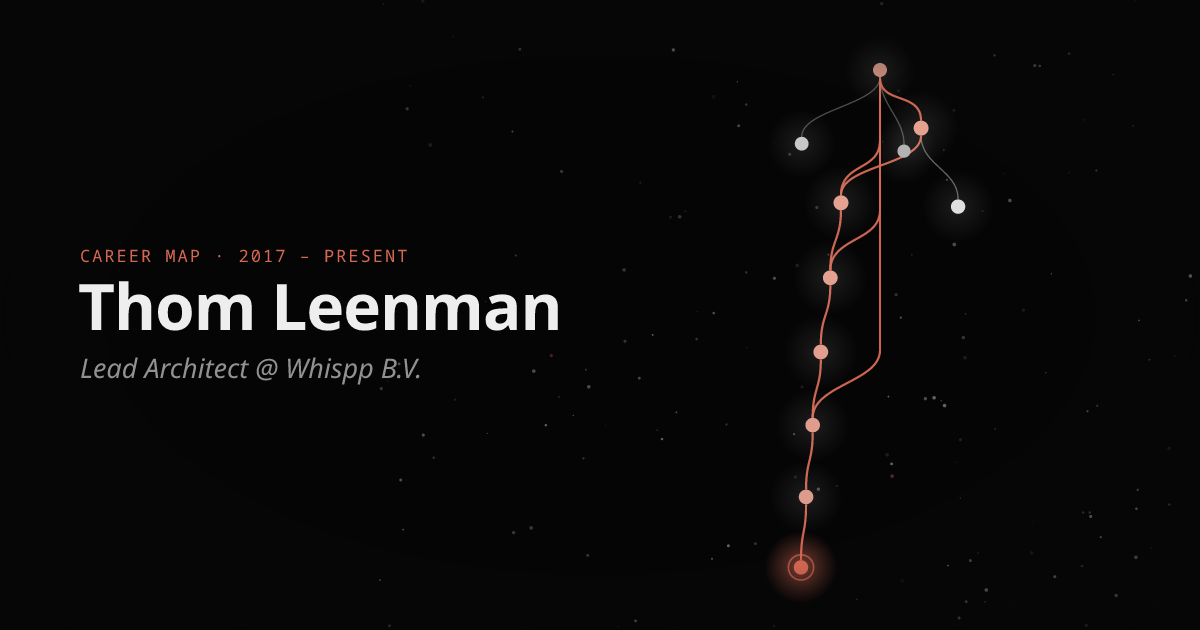
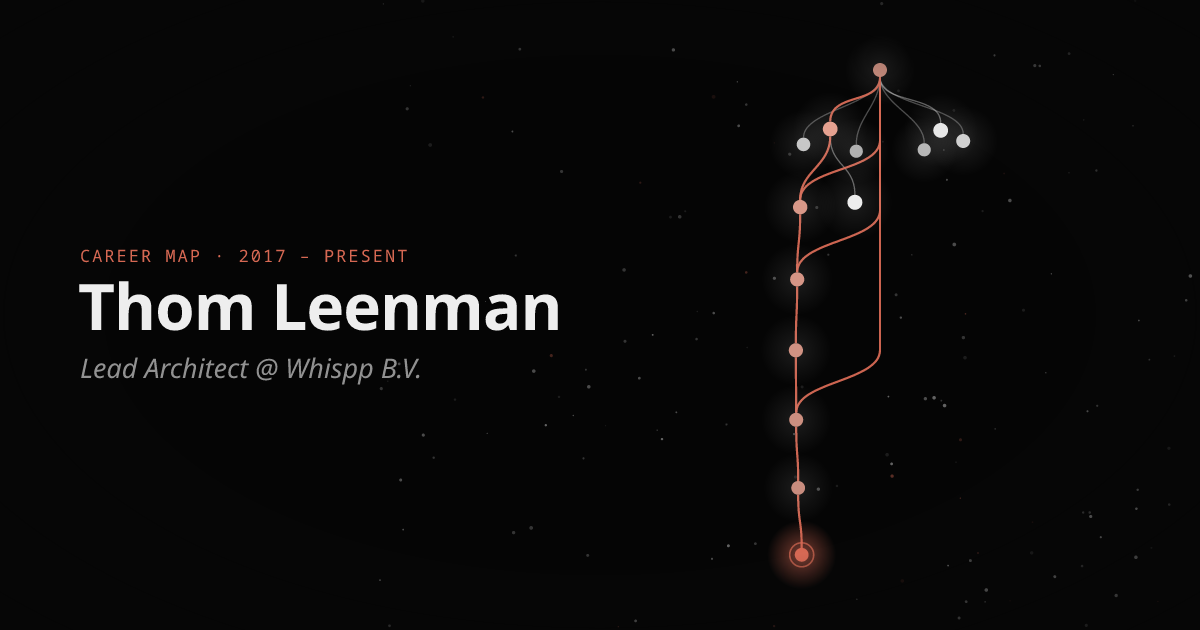
Add projects from lnmn.nl, card links and the CSS-Scripter tagline
- New milestones under the degree: SyncMyMusic, Cite and PixelFont
  (SyncMyMusic and PixelFont dates are estimates, marked in data.js)
- Optional per-milestone links, shown on the card and in the static list
- Tagline under the name in the header
- Only the current role gets the "you are here" ping
- Preview image picks the camera angle where milestones overlap the least

diff --git a/js/data.js b/js/data.js
@@ -4,6 +4,8 @@
 
 export const profile = {
     name: 'Thom Leenman',
+    // Shown right under the name
+    tagline: "aka CSS-Scripter (can't do css tho)",
     // Where the site is hosted; link previews need absolute URLs (e.g. for og.png)
     url: 'https://lnmn.nl',
     // Shown under the name. Leave empty to derive it from the current milestone.
@@ -25,6 +27,7 @@ export const profile = {
  * @property {string} description     Paragraphs separated by a blank line
  * @property {string[]} connectionsFrom
  * @property {string[]} skills
+ * @property {{ label: string, href: string }[]} [links]  Shown on the card, e.g. a live site or repository
  */
 
 /** @type {Milestone[]} */
@@ -155,6 +158,53 @@ export const nodeData = [
         `,
         connectionsFrom: ['hsleiden'],
         skills: ['Angular', 'JavaScript', 'TypeScript']
+    }, {
+        id: 'syncmymusic',
+        title: 'SyncMyMusic',
+        subtitle: 'School project',
+        // Estimated: the project semester before the GitHub repository was created (Jan 2021)
+        start: '2020-09',
+        end: '2021-01',
+        description: `
+            A school project, with the primary goal of setting up a CI/CD pipeline. The project itself was done in Golang and Vue, with a self-hosted GitLab CI pipeline.
+
+            The website was meant for music bands, with the goal of easily managing sheet music. It's always a pain to search through all the sheet music until you find the correct one.
+        `,
+        connectionsFrom: ['hsleiden'],
+        skills: ['Golang', 'Vue', 'GitLab CI', 'CI/CD'],
+        links: [
+            { label: 'GitHub', href: 'https://github.com/CSS-Scripter/SyncMyMusic' },
+        ],
+    }, {
+        id: 'cite',
+        title: 'Cite',
+        subtitle: 'School project',
+        start: '2021-02',
+        end: '2021-05',
+        description: `
+            There are a lot of occasions where another WhatsApp group is created with the sole purpose of storing quotes. Why not keep them in a nicely styled app that also has the sole purpose of storing quotes? Created in collaboration with my buddy Daniel (LNGZL)!
+        `,
+        connectionsFrom: ['hsleiden'],
+        skills: [],
+        links: [
+            { label: 'LNGZL', href: 'https://lngzl.nl/' },
+        ],
+    }, {
+        id: 'pixelfont',
+        title: 'PixelFont',
+        subtitle: 'Side project',
+        // Estimated: when the GitHub repository was created; still online, so no end date
+        start: '2020-10',
+        end: null,
+        description: `
+            It's basically a font in pure (S)CSS. It started off as one of my less serious projects, and it still is one of my less serious projects.
+        `,
+        connectionsFrom: ['hsleiden'],
+        skills: ['CSS', 'SCSS'],
+        links: [
+            { label: 'pixelfont.lnmn.nl', href: 'https://pixelfont.lnmn.nl' },
+            { label: 'GitHub', href: 'https://github.com/CSS-Scripter/PixelFont' },
+        ],
     }, {
         id: 'whispp_lead-architect',
         title: 'Lead Architect',

diff --git a/scripts/og-image.js b/scripts/og-image.js
@@ -50,11 +50,40 @@ const fov = 30;
 const centerY = (layout.top + layout.bottom) / 2;
 const visibleHeight = layout.top - layout.bottom + 10;
 const distance = visibleHeight / (2 * Math.tan(THREE.MathUtils.degToRad(fov / 2)));
-const azimuth = Math.PI / 2 - layout.nodes.get(current.id).angle + 1.15;
 const camera = new THREE.PerspectiveCamera(fov, TREE.width / HEIGHT, 0.1, 1000);
-camera.position.set(Math.sin(azimuth) * distance, centerY, Math.cos(azimuth) * distance);
-camera.lookAt(0, centerY, 0);
-camera.updateMatrixWorld();
+const placeCamera = (azimuth) => {
+    camera.position.set(Math.sin(azimuth) * distance, centerY, Math.cos(azimuth) * distance);
+    camera.lookAt(0, centerY, 0);
+    camera.updateMatrixWorld();
+};
+
+// Look at the current role's column from the side (so it doesn't hide the spine), at
+// the angle where milestones overlap each other and the spine the least on screen
+const facing = Math.PI / 2 - layout.nodes.get(current.id).angle;
+const separation = (azimuth) => {
+    placeCamera(azimuth);
+    const toScreen = (p) => {
+        const v = new THREE.Vector3(p.x, p.y, p.z).project(camera);
+        return { x: v.x * TREE.width / 2, y: v.y * HEIGHT / 2 };
+    };
+    const points = [...layout.nodes.values()].filter((n) => !n.onSpine).map((n) => ({
+        ...toScreen(n.position),
+        spineX: toScreen({ x: 0, y: n.position.y, z: 0 }).x,
+    }));
+    let min = Infinity;
+    points.forEach((a, i) => {
+        min = Math.min(min, Math.abs(a.x - a.spineX));
+        points.slice(i + 1).forEach((b) => {
+            min = Math.min(min, Math.hypot(a.x - b.x, a.y - b.y));
+        });
+    });
+    return min;
+};
+let azimuth = facing + Math.PI / 2;
+for (let offset = 0.6; offset <= 2.5; offset += 0.02) {
+    if (separation(facing + offset) > separation(azimuth)) azimuth = facing + offset;
+}
+placeCamera(azimuth);
 
 const focal = HEIGHT / 2 / Math.tan(THREE.MathUtils.degToRad(fov / 2));
 const project = (p) => {

diff --git a/js/graph.js b/js/graph.js
@@ -3,6 +3,7 @@ import { Line2 } from 'three/addons/lines/Line2.js';
 import { LineGeometry } from 'three/addons/lines/LineGeometry.js';
 import { LineMaterial } from 'three/addons/lines/LineMaterial.js';
 import { DIMMED, HIGHLIGHT, LINEAGE, NODE_RADIUS, WHITE } from './constants';
+import { currentMilestone } from './format';
 import { getGlowTexture } from './textures';
 
 const discGeometry = new THREE.CircleGeometry(NODE_RADIUS, 64);
@@ -43,7 +44,7 @@ export function createConnectionCurve(points) {
     return path;
 }
 
-function createNodeView(data, item) {
+function createNodeView(data, item, isCurrent) {
     const group = new THREE.Group();
     group.position.set(item.position.x, item.position.y, item.position.z);
 
@@ -70,7 +71,7 @@ function createNodeView(data, item) {
     billboard.add(halo, disc, ring, hit);
 
     let ping = null;
-    if (data.end === null) {
+    if (isCurrent) {
         ping = new THREE.Mesh(ringGeometry, new THREE.MeshBasicMaterial({
             color: HIGHLIGHT, transparent: true, opacity: 0, depthWrite: false,
         }));
@@ -140,7 +141,8 @@ function createPulses(edges) {
 export function createGraph(layout, nodes) {
     const group = new THREE.Group();
 
-    const nodeViews = new Map(nodes.map((n) => [n.id, createNodeView(n, layout.nodes.get(n.id))]));
+    const current = currentMilestone(nodes);
+    const nodeViews = new Map(nodes.map((n) => [n.id, createNodeView(n, layout.nodes.get(n.id), n === current)]));
     const edgeViews = layout.edges.map((e) => createEdgeView(e, nodeViews));
     const pulses = createPulses(edgeViews);
 

diff --git a/js/ui.js b/js/ui.js
@@ -35,6 +35,27 @@ function chip(text, onClick) {
     return li;
 }
 
+function linkGroup(links = []) {
+    if (!links.length) return null;
+    const wrapper = document.createElement('div');
+    const heading = document.createElement('h3');
+    heading.textContent = 'Links';
+    const list = document.createElement('ul');
+    list.className = 'chips external';
+    links.forEach(({ label, href }) => {
+        const li = document.createElement('li');
+        const a = document.createElement('a');
+        a.href = href;
+        a.target = '_blank';
+        a.rel = 'noopener';
+        a.textContent = `${label} ↗`;
+        li.append(a);
+        list.append(li);
+    });
+    wrapper.append(heading, list);
+    return wrapper;
+}
+
 function relationGroup(label, nodes, onSelect) {
     if (!nodes.length) return null;
     const wrapper = document.createElement('div');
@@ -112,6 +133,7 @@ export function createUI({ onSelect, onClose }) {
         el.skills.hidden = node.skills.length === 0;
 
         el.relations.replaceChildren(...[
+            linkGroup(node.links),
             relationGroup('Came from', parents, onSelect),
             relationGroup('Led to', children, onSelect),
         ].filter(Boolean));

diff --git a/styles.css b/styles.css
@@ -69,7 +69,14 @@ button:focus-visible, a:focus-visible, #overlay:focus-visible {
     color: var(--muted);
 }
 
-.links:empty { display: none; }
+.tagline {
+    margin: 0.3em 0 0;
+    font-family: var(--mono);
+    font-size: 0.75rem;
+    color: var(--muted);
+}
+
+.tagline:empty, .links:empty { display: none; }
 
 .links {
     display: flex;
@@ -309,6 +316,24 @@ button:focus-visible, a:focus-visible, #overlay:focus-visible {
 }
 
 .chips.links button:hover { background: rgba(214, 104, 83, 0.25); }
+
+.chips.external > li { padding: 0; border: none; }
+
+.chips.external a {
+    display: inline-block;
+    padding: 0.25em 0.75em;
+    border: 1px solid var(--faint);
+    border-radius: 999px;
+    font-size: 0.72rem;
+    color: var(--fg);
+    text-decoration: none;
+    transition: border-color 0.2s;
+}
+
+.chips.external a:hover { border-color: var(--accent); }
+
+.milestone-links { display: flex; gap: 1em; font-size: 0.8rem; }
+.milestone-links a { color: var(--fg); }
 
 .stepper {
     display: flex;

diff --git a/js/format.js b/js/format.js
@@ -81,6 +81,7 @@ export function renderMilestoneList(nodes) {
                 <div class="milestone-body">
                     ${paragraphs(n.description).map((p) => `<p>${escapeHtml(p)}</p>`).join('')}
                     ${n.skills.length ? `<ul class="chips">${n.skills.map((s) => `<li>${escapeHtml(s)}</li>`).join('')}</ul>` : ''}
+                    ${n.links?.length ? `<p class="milestone-links">${renderLinks(n.links)}</p>` : ''}
                 </div>
             </article>
         </li>`).join('');

diff --git a/vite.config.js b/vite.config.js
@@ -12,6 +12,7 @@ function staticContent() {
     const replacements = {
         '<!--profile-name-->': escapeHtml(profile.name),
         '<!--profile-role-->': escapeHtml(role),
+        '<!--profile-tagline-->': escapeHtml(profile.tagline ?? ''),
         '<!--profile-links-->': renderLinks(profile.links),
         '<!--milestones-->': renderMilestoneList(nodeData),
         '%DESCRIPTION%': escapeHtml(summary),

diff --git a/index.html b/index.html
@@ -22,6 +22,7 @@
 <body>
     <header class="heading">
         <h1><!--profile-name--></h1>
+        <p class="tagline"><!--profile-tagline--></p>
         <p class="subtitle"><!--profile-role--></p>
         <nav class="links"><!--profile-links--></nav>
 
